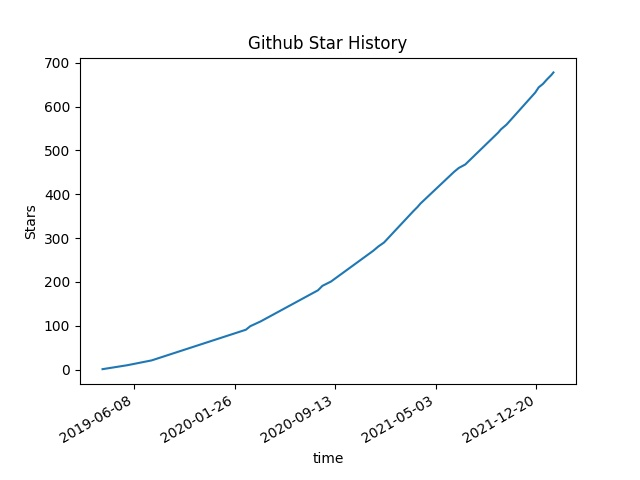
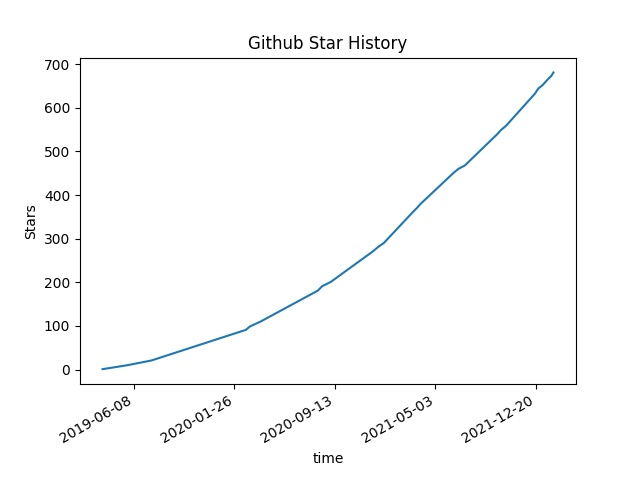
update by action_bot

diff --git a/data/README.md b/data/README.md
@@ -28,12 +28,12 @@
 + [nICEnnnnnnnLee](https://github.com/nICEnnnnnnnLee) STAR TOP 4
     
     + [BilibiliDown](https://github.com/nICEnnnnnnnLee/BilibiliDown) 
-    ![678 stars](https://img.shields.io/badge/Stars-678-green)
-    ![89 forks](https://img.shields.io/badge/Forks-89-green)  
+    ![681 stars](https://img.shields.io/badge/Stars-681-green)
+    ![90 forks](https://img.shields.io/badge/Forks-90-green)  
     (GUI-多平台支持) B站 哔哩哔哩 视频下载器。支持稍后再看、收藏夹、UP主视频批量下载|Bilibili Video Downloader 😳仅供交流学习使用喔
     
     + [BilibiliLiveRecorder](https://github.com/nICEnnnnnnnLee/BilibiliLiveRecorder) 
-    ![321 stars](https://img.shields.io/badge/Stars-321-green)
+    ![324 stars](https://img.shields.io/badge/Stars-324-green)
     ![55 forks](https://img.shields.io/badge/Forks-55-green)  
     pure-java B站/Acfun/斗鱼/虎牙/快手/抖音/YY/战旗/花椒 直播视频录制。仅需Java环境即可运行
     
